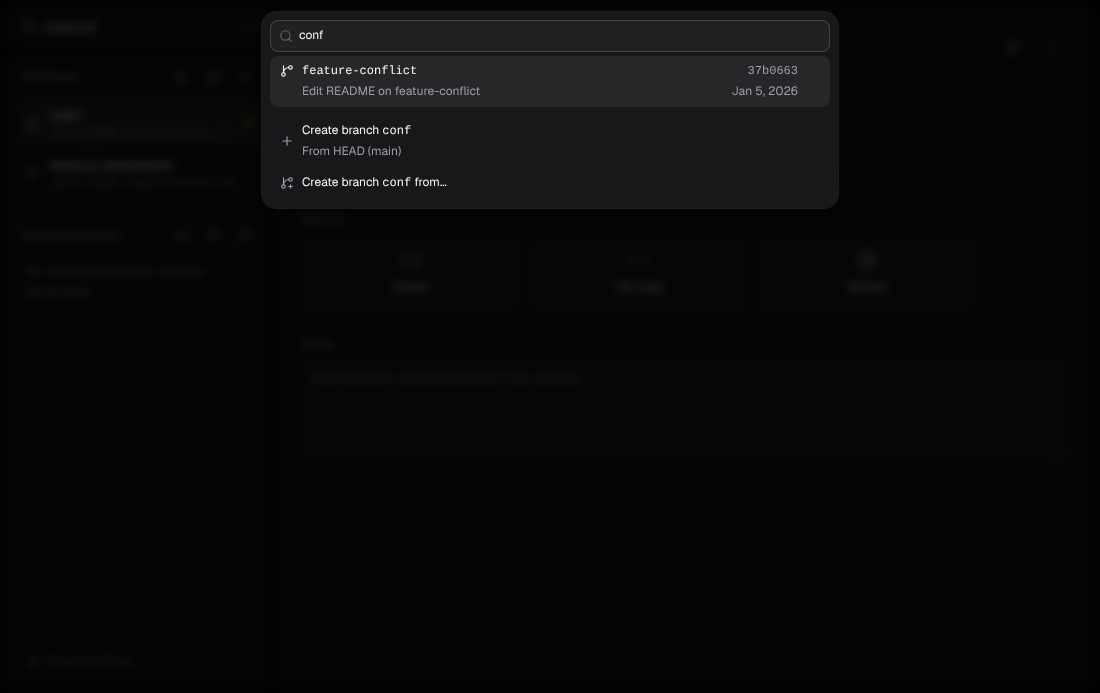
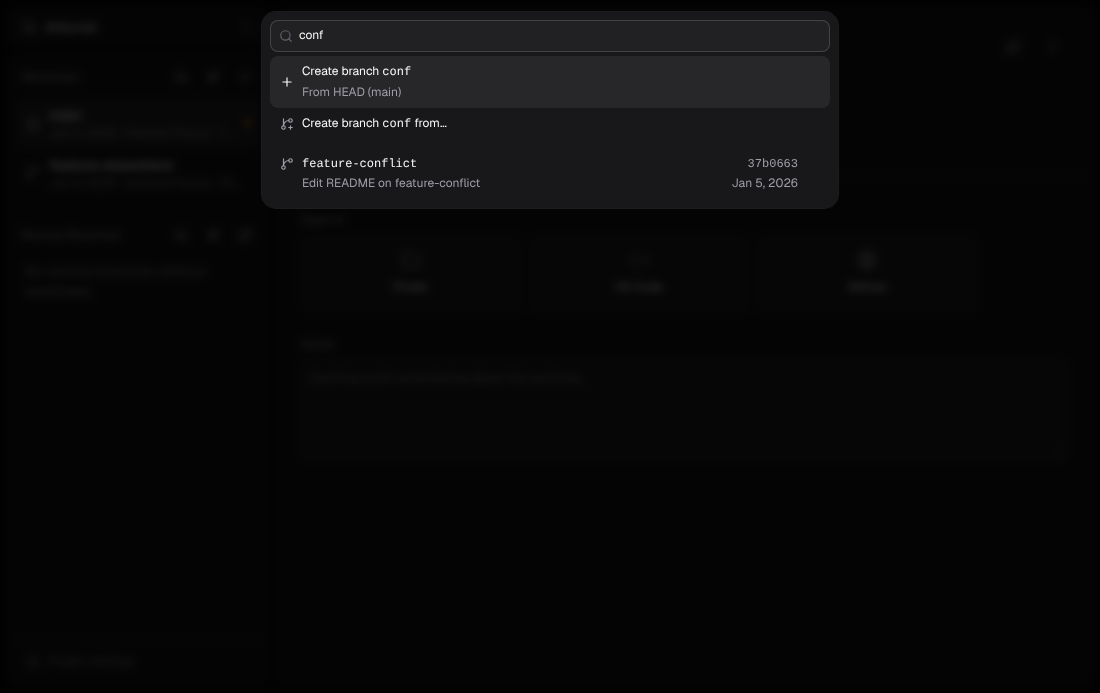
Branch switcher: only an exact match outranks "Create branch" (#139)
A segment or whole-name prefix match (docs vs chore/docs-update, feat vs
feature/x) no longer sits above the create rows, so Enter on a short new
name creates it. With an invalid typed name, nothing is focused, so Enter
can't fall through to a loose match.

Claude-Session: https://claude.ai/code/session_01LMu4FNfD9ZcZav7Y4NYjV8

Changed region(s): [[0.2473, 0.0909, 0.4327, 0.2727], [0.68, 0.2121, 0.7418, 0.2727], [0.68, 0.0909, 0.7418, 0.1515]]

diff --git a/src/renderer/src/components/switch-branch-dialog.tsx b/src/renderer/src/components/switch-branch-dialog.tsx
@@ -1,4 +1,4 @@
-import { useState } from 'react'
+import { useRef, useState } from 'react'
 import { toast } from 'sonner'
 import { useQueryClient } from '@tanstack/react-query'
 import { Cloud, GitBranch, GitBranchPlus, GitCommitHorizontal, Plus } from 'lucide-react'
@@ -83,6 +83,11 @@ interface Navigation {
 
 const CREATE_KEY = 'create'
 const CREATE_FROM_KEY = 'create-from'
+/**
+ * The palette's value when no row should have focus. Not empty: cmdk treats
+ * an empty value as "nothing chosen yet" and selects the first row itself.
+ */
+const NO_SELECTION = 'none'
 
 /** The final segment of a worktree path, to name it in a row without the whole path. */
 function folderName(path: string): string {
@@ -191,6 +196,14 @@ export function SwitchBranchDialog({
   const [error, setError] = useState<string | null>(null)
   const [busy, setBusy] = useState(false)
   const [conflict, setConflict] = useState<Conflict | null>(null)
+  // Whether the next change of row comes from the user — arrow keys or the
+  // pointer — rather than from cmdk, which selects the first row by itself
+  // whenever the search changes.
+  const deliberate = useRef(false)
+  // cmdk records its own pick of the first row before asking to change the
+  // value, and only takes the value back from us when it changes. Turning the
+  // pick down therefore bumps this, so that "nothing focused" is a new value.
+  const [declined, setDeclined] = useState(0)
 
   const local = localBranches.data ?? []
   const remote = remoteBranches.data ?? []
@@ -238,9 +251,9 @@ export function SwitchBranchDialog({
   const typed = search.trim()
   const showCreate = step.kind === 'branch' && !loading && offerCreate(typed, localNames, remote)
   const createValidation = showCreate ? validateBranchName(typed) : null
-  // Above the branches when none of them is a confident match for what was
-  // typed, so Enter on a new name creates it rather than switching to
-  // whatever loosely matched (#137).
+  // Above the branches unless one of them is exactly what was typed, so Enter
+  // on a new name creates it rather than switching to whatever else matched
+  // (#137, #139).
   const createFirst = showCreate && createGoesFirst(rows, typed)
 
   // The topmost row has focus whenever the search changes (#96); arrowing
@@ -250,11 +263,16 @@ export function SwitchBranchDialog({
   const rowKeys = rows.filter(isAvailable).map((row) => row.key)
   const createKeys = createValidation?.valid ? [CREATE_KEY, CREATE_FROM_KEY] : []
   const keys = createFirst ? [...createKeys, ...rowKeys] : [...rowKeys, ...createKeys]
+  // A typed name git would refuse leaves its create row on top but disabled,
+  // and every branch below it is a looser match than the name (#139). Focusing
+  // the first of those would let a typo plus Enter check out an unrelated
+  // branch, so nothing has focus until the user arrows to a row.
+  const defaultKey = createFirst && !createValidation?.valid ? NO_SELECTION : (keys[0] ?? '')
   const context = `${step.kind}:${search}`
   const active =
     navigation && navigation.context === context && keys.includes(navigation.key)
       ? navigation.key
-      : (keys[0] ?? '')
+      : defaultKey
 
   /**
    * Closes the palette and clears it, so the next open starts fresh rather
@@ -473,8 +491,23 @@ export function SwitchBranchDialog({
           <Command
             shouldFilter={false}
             loop
-            value={active}
-            onValueChange={(key) => setNavigation({ context, key })}
+            value={active === NO_SELECTION ? `${NO_SELECTION}:${declined}` : active}
+            onValueChange={(key) => {
+              const fromUser = deliberate.current
+              deliberate.current = false
+              // Where nothing should have focus (#139), cmdk's own pick of the
+              // first row is exactly the weak match being kept from Enter.
+              if (defaultKey === NO_SELECTION && !fromUser) {
+                setDeclined((count) => count + 1)
+                return
+              }
+              setNavigation({ context, key })
+            }}
+            onKeyDown={(event) => {
+              if (/^(Arrow(Up|Down)|Home|End)$/.test(event.key) || event.ctrlKey) {
+                deliberate.current = true
+              }
+            }}
             className="rounded-none"
           >
             <CommandInput
@@ -486,7 +519,10 @@ export function SwitchBranchDialog({
                   : 'Select a branch to switch to, or type a new name'
               }
               value={search}
-              onValueChange={setSearch}
+              onValueChange={(value) => {
+                deliberate.current = false
+                setSearch(value)
+              }}
               disabled={busy}
             />
             {error && (
@@ -496,7 +532,12 @@ export function SwitchBranchDialog({
                 message={error}
               />
             )}
-            <CommandList className="max-h-[min(24rem,60vh)]">
+            <CommandList
+              className="max-h-[min(24rem,60vh)]"
+              onPointerMoveCapture={() => {
+                deliberate.current = true
+              }}
+            >
               {!showCreate && (
                 <CommandEmpty>{loading ? 'Loading branches…' : 'No matching branch.'}</CommandEmpty>
               )}

diff --git a/tests/e2e/smoke.spec.ts b/tests/e2e/smoke.spec.ts
@@ -484,10 +484,11 @@ test('the switch palette puts the default branch first and narrows as you type',
   await expect(first).toContainText('default')
   await expect(first).toHaveAttribute('aria-selected', 'true')
 
-  // Narrowed to the one branch — the create rows below it aside, since
-  // `maint` isn't itself a branch name.
-  await window.keyboard.type('maint')
+  // Narrowed to the one branch. Typed in full, since a prefix alone would put
+  // "Create branch" on top (#139).
+  await window.keyboard.type('maintenance')
   await expect(window.getByRole('option').filter({ hasText: 'default' })).toHaveCount(0)
+  await expect(window.getByRole('option').filter({ hasText: 'Create branch' })).toHaveCount(0)
   await expect(first).toContainText('maintenance')
   await expect(first).toHaveAttribute('aria-selected', 'true')
 
@@ -499,11 +500,12 @@ test('the switch palette puts the default branch first and narrows as you type',
   await rm(root, { recursive: true, force: true })
 })
 
-test('Enter on a new name creates it rather than switching to a loose match (#137)', async () => {
+test('Enter on a new name creates it rather than switching to a loose match (#137, #139)', async () => {
   const root = await realpath(await mkdtemp(join(tmpdir(), 'arborist-e2e-')))
   const fixture = new GitFixture(join(root, 'fixture'), 'Arborist')
   await fixture.init()
   await fixture.git(['branch', 'feature/write-api'])
+  await fixture.git(['branch', 'chore/docs-update'])
 
   const app = await launch(root, fixture.repoPath)
   const window = await app.firstWindow()
@@ -531,6 +533,35 @@ test('Enter on a new name creates it rather than switching to a loose match (#13
   // below "Create branch", which is what Enter picks.
   await expect(window.getByRole('option').filter({ hasText: 'feature/write-api' })).toBeVisible()
   const first = window.getByRole('option').first()
+  await expect(first).toContainText('Create branch wip')
+  await expect(first).toHaveAttribute('aria-selected', 'true')
+
+  // A name git would refuse — here a prefix with a trailing slash — leaves its
+  // create row disabled, and nothing else focused: Enter mustn't fall through
+  // to the prefix match below it (#139).
+  await search.fill('')
+  await window.keyboard.type('feature/')
+  await expect(window.getByTestId('switch-branch-plan')).toContainText(
+    'cannot start or end with "/"'
+  )
+  await expect(window.getByRole('option').filter({ hasText: 'feature/write-api' })).toBeVisible()
+  await expect(window.getByRole('option', { selected: true })).toHaveCount(0)
+  await window.keyboard.press('Enter')
+  await expect(window.getByTestId('switch-branch-dialog')).toBeVisible()
+  expect((await fixture.git(['rev-parse', '--abbrev-ref', 'HEAD'])).trim()).toBe('main')
+  // Arrowing down still reaches it, deliberately.
+  await window.keyboard.press('ArrowDown')
+  await expect(window.getByRole('option', { selected: true })).toContainText('feature/write-api')
+
+  // `docs` starts a segment of chore/docs-update, which is still listed — but
+  // below "Create branch", like any match short of the exact name (#139).
+  await search.fill('')
+  await window.keyboard.type('docs')
+  await expect(window.getByRole('option').filter({ hasText: 'chore/docs-update' })).toBeVisible()
+  await expect(first).toContainText('Create branch docs')
+  await expect(first).toHaveAttribute('aria-selected', 'true')
+  await search.fill('')
+  await window.keyboard.type('wip')
   await expect(first).toContainText('Create branch wip')
   await expect(first).toHaveAttribute('aria-selected', 'true')
 

diff --git a/scripts/screenshots/scenarios.ts b/scripts/screenshots/scenarios.ts
@@ -1772,12 +1772,14 @@ export const scenarios: Scenario[] = [
       await option('feature-elsewhere').waitFor({ state: 'visible' })
       await shot('picker')
 
-      // 'conf' isn't a branch name, so the create rows join the one match.
+      // 'conf' isn't a branch name, so the create rows join the one match —
+      // above it, since only an exact name outranks them (#139). So the
+      // match is clicked rather than picked with Enter.
       await window.keyboard.type('conf')
       await option('feature-clean').waitFor({ state: 'detached' })
       await shot('search')
 
-      await window.keyboard.press('Enter')
+      await option('feature-conflict').click()
       await window.getByTestId('switch-branch-conflict-dialog').waitFor({ state: 'visible' })
       await shot('conflict')
 
@@ -1839,7 +1841,10 @@ export const scenarios: Scenario[] = [
       '"Create branch" and "Create branch … from…" rows that appear once a ' +
       'typed name matches no branch, a typed name git would refuse, a new ' +
       'name that only loosely matches an existing branch with the create ' +
-      'rows on top so Enter creates it (#137), the start-point step that ' +
+      'rows on top so Enter creates it (#137), the same for a name that ' +
+      'starts a segment of an existing branch (#139), an invalid name that ' +
+      'still matches a branch, with nothing focused so Enter does nothing ' +
+      '(#139), the start-point step that ' +
       '"from…" swaps the list for, Escape stepping back out of it (#137), ' +
       'and the worktree afterwards, checked out on the branch that was just ' +
       'created.',
@@ -1849,6 +1854,8 @@ export const scenarios: Scenario[] = [
       await fixture.git(['branch', 'feature-base'])
       // Matches `wip` only loosely — w…i…p in order — for the #137 step.
       await fixture.git(['branch', 'feature/write-api'])
+      // `docs` starts one of its segments, for the #139 step.
+      await fixture.git(['branch', 'chore/docs-update'])
       return { ARBORIST_PICK_FOLDER: fixture.repoPath }
     },
     drive: async (window, shot) => {
@@ -1872,6 +1879,26 @@ export const scenarios: Scenario[] = [
         .filter({ hasText: 'feature/write-api' })
         .waitFor({ state: 'visible' })
       await shot('loose-match')
+
+      await input.fill('docs')
+      await window.getByText('From HEAD (main)').waitFor({ state: 'visible' })
+      await window
+        .getByRole('option')
+        .filter({ hasText: 'chore/docs-update' })
+        .waitFor({ state: 'visible' })
+      await shot('segment-match')
+
+      // A trailing slash: invalid, but still a prefix of feature/write-api.
+      await input.fill('feature/')
+      await window
+        .getByTestId('switch-branch-plan')
+        .filter({ hasText: 'cannot start or end with' })
+        .waitFor({ state: 'visible' })
+      await window
+        .getByRole('option')
+        .filter({ hasText: 'feature/write-api' })
+        .waitFor({ state: 'visible' })
+      await shot('invalid-match')
 
       await input.fill('feature/new-thing')
       await window.getByText('From HEAD (main)').waitFor({ state: 'visible' })

diff --git a/tests/unit/branch-picker.test.ts b/tests/unit/branch-picker.test.ts
@@ -342,13 +342,40 @@ describe('createGoesFirst', () => {
     expect(createGoesFirst(filterRows(rows, 'rite'), 'rite')).toBe(true)
   })
 
-  it('keeps a prefix or segment-prefix match above create', () => {
-    expect(createGoesFirst(filterRows(rows, 'feat'), 'feat')).toBe(false)
-    expect(createGoesFirst(filterRows(rows, 'write'), 'write')).toBe(false)
-    expect(createGoesFirst(filterRows(rows, 'dev'), 'dev')).toBe(false)
+  it('puts create first over a segment-prefix match (#139)', () => {
+    const docs = switchRows({
+      local: [local('main'), local('chore/docs-update')],
+      remote: [],
+      worktrees: [worktree('/repo', 'main')],
+      worktreePath: '/repo',
+      currentBranch: 'main',
+      defaultBranch: 'main',
+      platform: 'linux'
+    })
+    expect(names(filterRows(docs, 'docs'))).toEqual(['chore/docs-update'])
+    expect(matchScore('docs', filterRows(docs, 'docs')[0])).toBe(2)
+    expect(createGoesFirst(filterRows(docs, 'docs'), 'docs')).toBe(true)
+    // #137's own example branch, by its second segment.
+    expect(createGoesFirst(filterRows(rows, 'api'), 'api')).toBe(true)
+    expect(createGoesFirst(filterRows(rows, 'write'), 'write')).toBe(true)
   })
 
-  it('ignores a confident match that cannot be picked anyway', () => {
+  it('puts create first over a whole-name prefix match (#139)', () => {
+    expect(matchScore('feat', filterRows(rows, 'feat')[0])).toBe(1)
+    expect(createGoesFirst(filterRows(rows, 'feat'), 'feat')).toBe(true)
+    expect(createGoesFirst(filterRows(rows, 'dev'), 'dev')).toBe(true)
+  })
+
+  it('keeps an exact match above create', () => {
+    // offerCreate only hides create for an exact, case-sensitive name, so a
+    // different case is the one way to get both an exact row and create.
+    expect(offerCreate('Feature/Write-API', ['main', 'feature/write-api'], [])).toBe(true)
+    expect(createGoesFirst(filterRows(rows, 'Feature/Write-API'), 'Feature/Write-API')).toBe(false)
+    // A remote's short name is exact too.
+    expect(createGoesFirst(filterRows(rows, 'Develop'), 'Develop')).toBe(false)
+  })
+
+  it('ignores an exact match that cannot be picked anyway', () => {
     const busy = switchRows({
       local: [local('main'), local('wip-old')],
       remote: [],
@@ -358,7 +385,8 @@ describe('createGoesFirst', () => {
       defaultBranch: 'main',
       platform: 'linux'
     })
-    expect(createGoesFirst(filterRows(busy, 'wip'), 'wip')).toBe(true)
+    expect(matchScore('wip-old', filterRows(busy, 'WIP-old')[0])).toBe(0)
+    expect(createGoesFirst(filterRows(busy, 'WIP-old'), 'WIP-old')).toBe(true)
   })
 
   it('has nothing to put first for an empty search', () => {

diff --git a/src/shared/branch-picker.ts b/src/shared/branch-picker.ts
@@ -275,32 +275,25 @@ export function filterRows(rows: readonly BranchRow[], query: string): BranchRow
 }
 
 /**
- * The worst `matchScore` that still outranks "Create branch" for a typed name
- * that isn't a branch yet: a whole name, a prefix, or a segment prefix.
- */
-const CONFIDENT_MATCH = 2
-
-/**
  * Whether the "Create branch" rows go above the matching branches rather than
- * below them, for a name `offerCreate` has already decided to offer (#137).
+ * below them, for a name `offerCreate` has already decided to offer (#137,
+ * #139).
  *
  * The top row is the one Enter picks, and picking a branch switches to it
- * straight away. The substring and in-order-characters fallbacks catch
- * almost any short text — `wip` matches `feature/write-api` — so with the
- * create rows always last, typing a new name and pressing Enter would
- * quietly check out some barely-related branch instead, uncommitted changes
- * and all. So only a match that plainly *is* what was typed (exact, prefix or
- * segment prefix) stays above them; anything looser drops below, the way VS
- * Code puts "Create new branch…" first.
+ * straight away. Any looser match catches far too much: the in-order
+ * characters fallback turns `wip` into `feature/write-api` (#137), and even a
+ * segment prefix turns the short, common names people give new branches —
+ * `docs`, `api`, `fix` — into `chore/docs-update` or `feature/write-api`
+ * (#139). With the create rows below those, typing a new name and pressing
+ * Enter would quietly check out some other branch instead, uncommitted
+ * changes and all. So only an exact match — the typed text *is* that branch,
+ * by its name or a remote's short name — stays above them. Everything else is
+ * still listed, just below, the way VS Code puts "Create new branch…" first.
  */
 export function createGoesFirst(rows: readonly BranchRow[], query: string): boolean {
   const needle = query.trim().toLowerCase()
   if (!needle) return false
-  return !rows.some((row) => {
-    if (!isAvailable(row)) return false
-    const score = matchScore(needle, row)
-    return score !== null && score <= CONFIDENT_MATCH
-  })
+  return !rows.some((row) => isAvailable(row) && matchScore(needle, row) === 0)
 }
 
 /**
